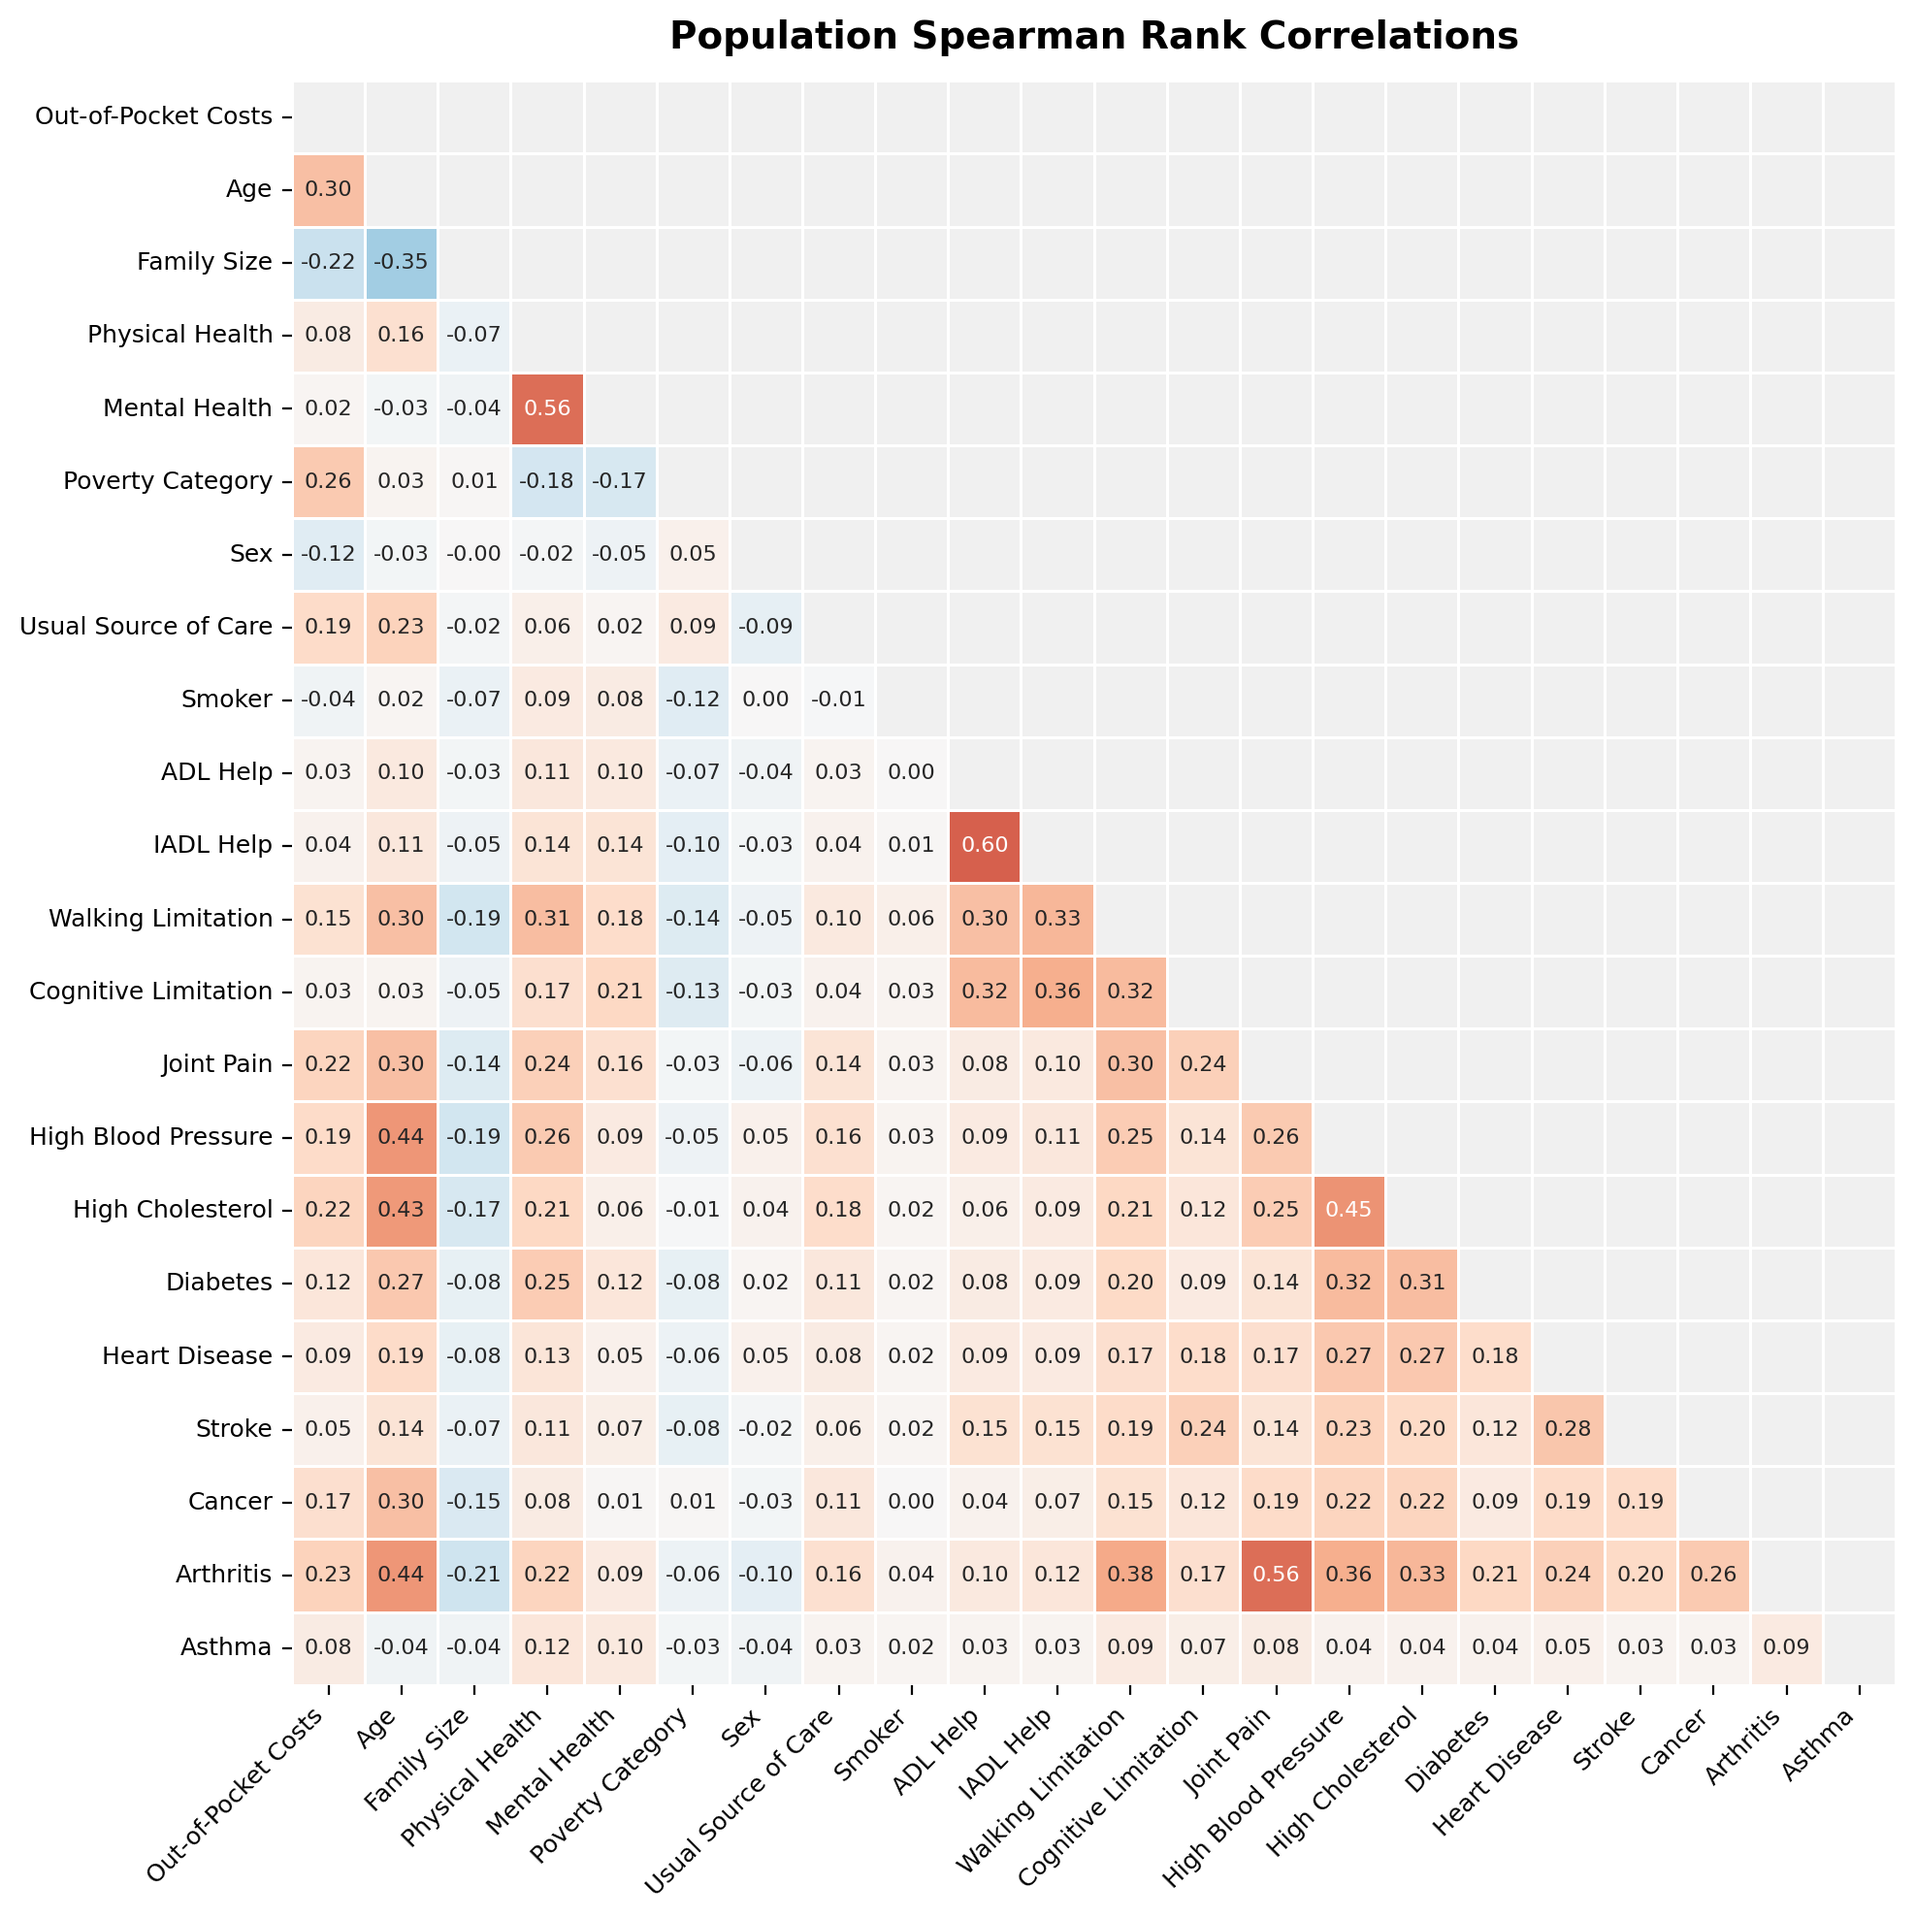
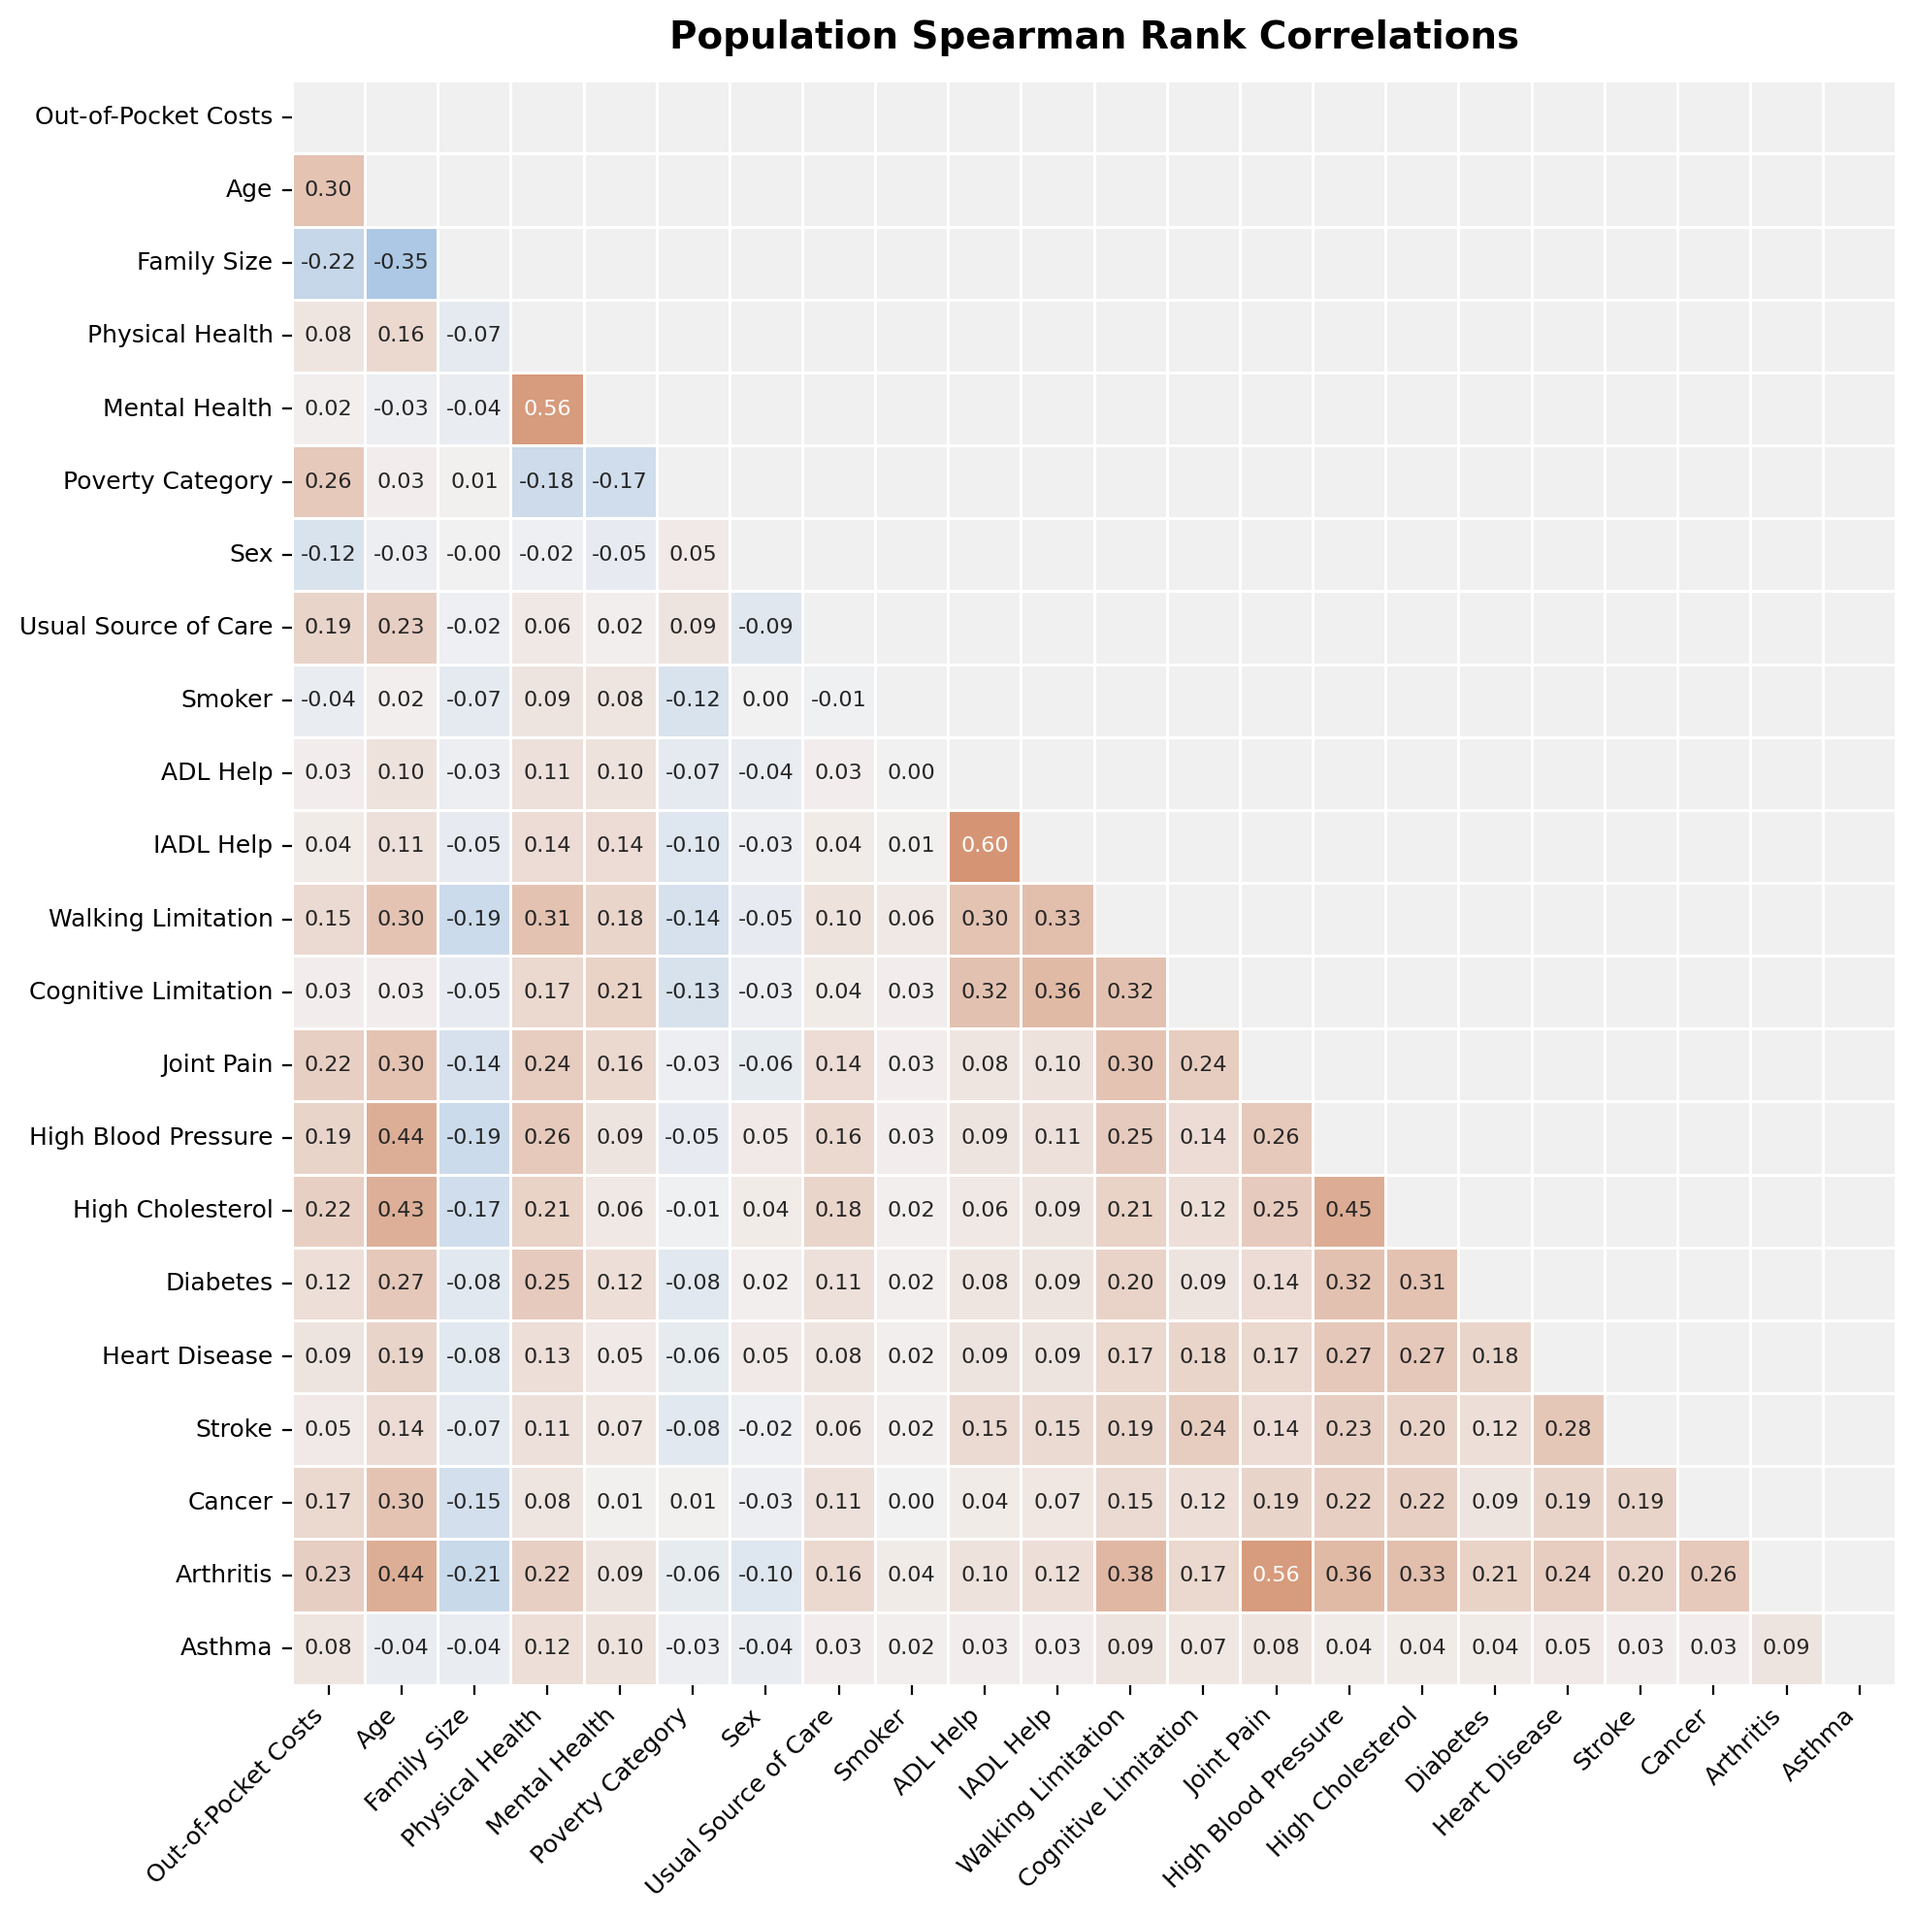
style(eda): use a custom color map in correlation heatmap

diff --git a/notebooks/medical_cost_prediction.py b/notebooks/medical_cost_prediction.py
@@ -1538,11 +1538,15 @@ def plot_correlation_heatmap(df, columns, method, weights=None, save_to_file=Non
     # Color NaN cells (upper triangle) light grey so the triangle shape reads cleanly
     ax.set_facecolor("#f0f0f0")
 
+    # Create a custom color palette: Navy (Negative) -> White -> Orange (Positive)
+    custom_cmap = sns.diverging_palette(250, 25, s=90, l=50, as_cmap=True)
+
     # Create heatmap
     sns.heatmap(
         correlation_matrix, 
-        cmap="RdBu_r",  # Diverging colormap: red = negative, white = zero, blue = positive
-        vmin=-1, vmax=1,  # Fix colour scale to full [-1, 1] range so white = zero correlation
+        cmap=custom_cmap, 
+        vmin=-1, vmax=1,
+        center=0,
         annot=True,  # Annotate correlation values
         annot_kws={"size": 8},  # Format font size of values 
         fmt=".2f",  # Format values with 2 decimals
